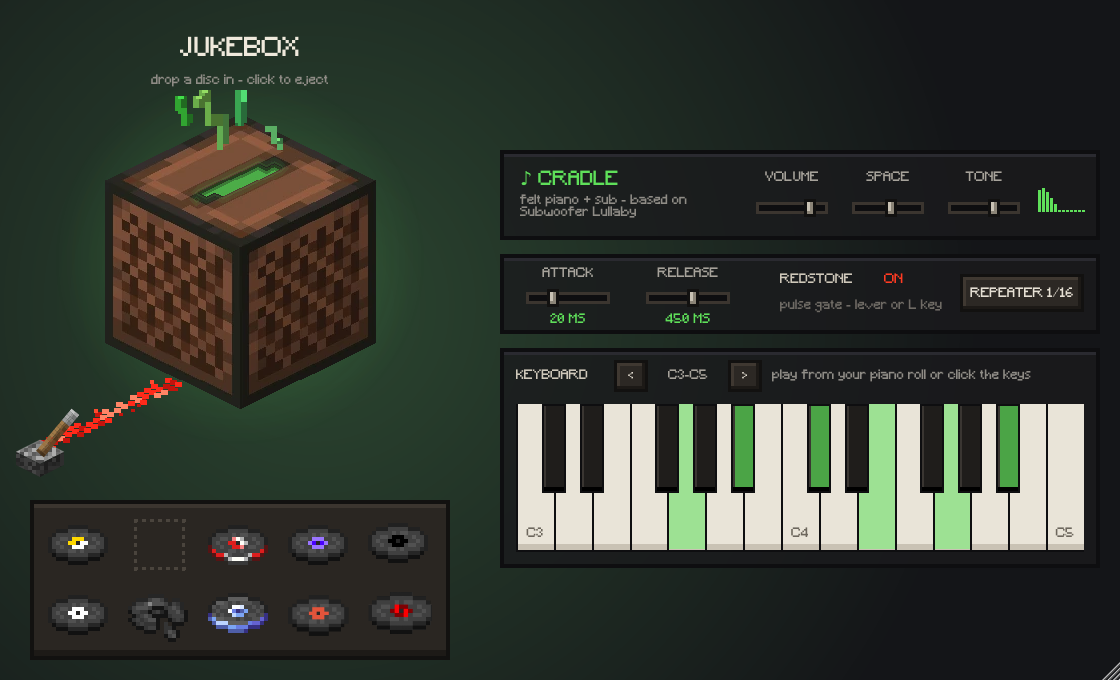
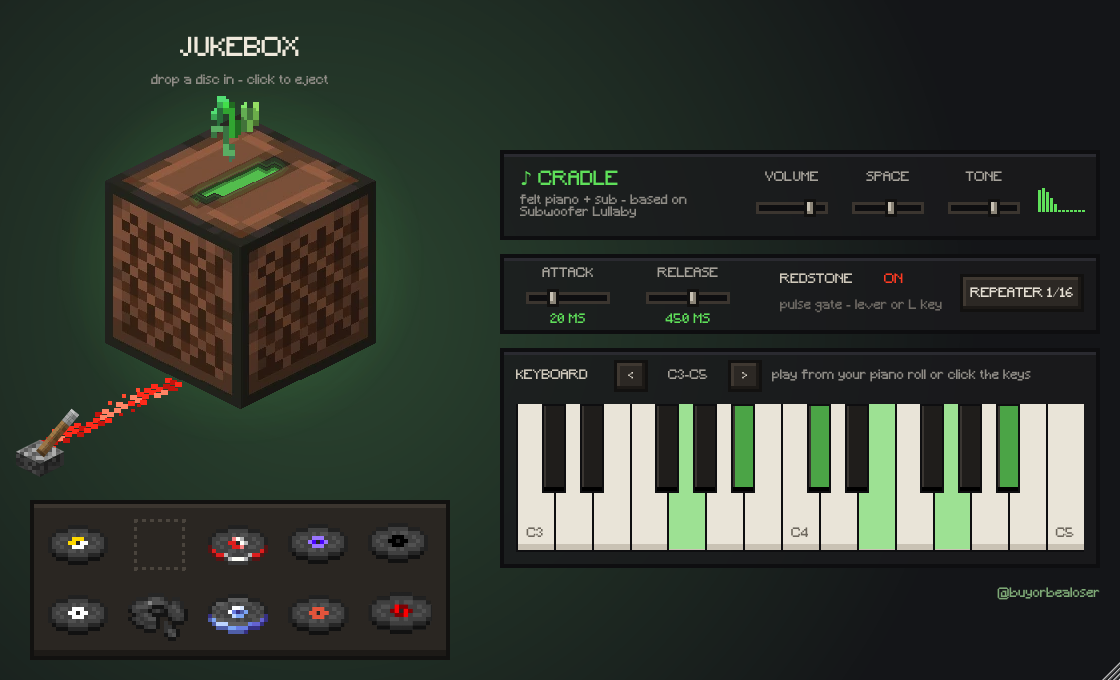
Vendor is BUY OR BE A LOSER, add @buyorbealoser signature
- COMPANY_NAME "BUY OR BE A LOSER", bundle id com.buyorbealoser.jukebox,
  manufacturer code Bobl
- @buyorbealoser shown under the keyboard (plugin) and bottom-right (preview)

Claude-Session: https://claude.ai/code/session_01Eqx2ri559G3tB35wGmKCGo

diff --git a/preview/index.html b/preview/index.html
@@ -112,6 +112,7 @@
   .lbl { font-family: 'Minecraft', monospace; font-size: 16px; color: #6d675d; pointer-events: none; text-align: center; line-height: 1.2; }
   .bk .lbl { color: #8a847a; }
   .lbl b { display: block; font-weight: 400; color: #a19a8e; font-size: 8px; margin-top: 4px; }
+  #sig { position: fixed; right: 28px; bottom: 16px; font-size: 16px; color: color-mix(in srgb, var(--tint) 35%, #8f8c86); transition: color .8s; pointer-events: none; }
   #toast { position: fixed; left: 50%; bottom: 26px; transform: translateX(-50%); font-family: 'Minecraft', monospace; font-size: 16px; letter-spacing: 0;
     background: #0e0e10; border: 3px solid var(--tint); padding: 8px 14px; opacity: 0; transition: opacity .3s; pointer-events: none; z-index: 50; }
   #toast.show { opacity: 1; }
@@ -175,6 +176,7 @@
     <div id="keys"></div>
   </div>
 </section>
+<div id="sig">@buyorbealoser</div>
 <div id="toast"></div>
 
 <script>

diff --git a/Source/PluginEditor.cpp b/Source/PluginEditor.cpp
@@ -217,6 +217,9 @@ void Content::paint (juce::Graphics& g)
     const int base = proc.getOctaveBase();
     label ("C" + juce::String (base / 12 - 1) + "-C" + juce::String (base / 12 + 1), 648, 364, 80, col::label, 16.0f, juce::Justification::centred);
     label ("play from your piano roll or click the keys", 772, 364, 320, col::dim);
+
+    // signature
+    label ("@buyorbealoser", 500, 582, 600, mix (tc, col::dim, .35f), 16.0f, juce::Justification::centredRight);
 }
 
 void Content::paintOverChildren (juce::Graphics& g)

diff --git a/README.md b/README.md
@@ -79,4 +79,4 @@ The jukebox and disc textures and the Minecraft font are third-party assets supp
 Check their licences before distributing the plugin commercially.
 
 ---
-Underwater Palace
+BUY OR BE A LOSER - @buyorbealoser
